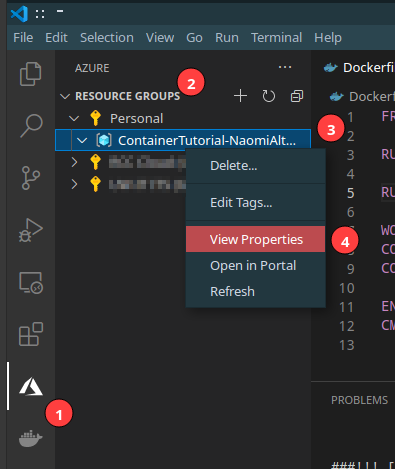
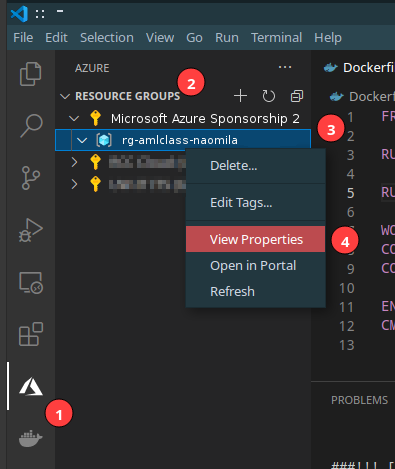
Azure CLI setup changes

Changed region(s): [[0.2734, 0.2388, 0.7595, 0.3284]]

diff --git a/03-deploying-containers.md b/03-deploying-containers.md
@@ -51,17 +51,25 @@ A classic example might be to develop an ML model training script on your comput
 
 There are many ways to run a Docker container in Microsoft Azure. The most general-purpose of which is a service they provide called **Azure Container Instances**. We'll use the **Azure CLI** to interact with it. The Azure CLI runs on the terminal and behaves similarly to the Docker CLI, but its commands all start with `az` rather than `docker`.
 
-Get started by opening a VS Code terminal and logging in to Azure with the command:
+Get started by downloading and installing the Azure CLI on your computer here:
+
+https://docs.microsoft.com/en-us/cli/azure/install-azure-cli
+
+Once you're finished with that, open a VS Code terminal and logging in to Azure with the command:
 
 `az login`
 
-This command will open a web browser to an Azure login page. Enter your username and password, and once you've successfully logged in go back to the terminal.
+This command will open a web browser to an Azure login page. Enter your username and password, and once you've successfully logged in go back to the terminal. You should see it list the Azure **subscriptions** you have access to (that is, the billing accounts paying for your cloud resources). In our case, the whole class falls under one subscription, called "Microsoft Azure Sponsorship 2" (labeled (1) in figure).
 
-Next, we'll tell the CLI what **subscription** and **resource group** to work within. You can find this information by opening the Azure sidebar and looking under the Resource Groups box. Right-click the resource group created for your time in this class, of the form `rg-amlclass-[UW STUDENT ID]`, and select `View Properties`:
+![rg](img/subscriptions.png)
+
+We'll start by setting the CLI to use this subscription by default, so we don't have to specify it for every `az` command we run. Copy the value in the `id` field of this output (labeled (2) in figure)  and paste it into the following command, which you should run in your terminal:
+
+`az account set --subscription [SUBSCRIPTION ID]`
+
+Next, we'll tell the CLI what **resource group** to work within. The resource group is specific to you, and is like a cloud "folder" containing all of the Azure services you'll create or use. You can find this information by opening the Azure sidebar (1) and looking under the Resource Groups box (2), though you may have to log in to Azure again through the sidebar to see it. Expand this class's subscription ("Microsoft Azure Sponsorship 2") and right-click the resource group created for you (3). Its name will take the form `rg-amlclass-[UW STUDENT ID]`. Select `View Properties` (4):
 
 ![rg](img/rg.png)
-
-You may have to log in to Azure again through the Azure sidebar to see all of your available resource groups.
 
 Once you click `View Properties`, a bunch of configuration information should open up in the code editing area. It'll look something like this:
 
@@ -81,19 +89,19 @@ The id of the resource group takes the following form:
 
 `/subscriptions/[SUBSCRIPTION ID]/resourceGroups/[GROUP NAME]`
 
-Note down both the subscription ID and group name from the "id" section of the configuration info in your VS code window (don't use the values in the above example). The subscription is the billing account paying for your cloud resources; in our case, the whole class falls under one subscription. The resource group is specific to you, and is like a cloud "folder" containing all of the Azure services you start using.
-
-In your terminal, set the active subscription with the command:
-
-`az account set --subscription [SUBSCRIPTION ID]`
-
-replacing [SUBSCRIPTION ID] with the appropriate value you noted down earlier. Then, set the resource group with the command:
+Note down both the group name from the "id" section of the configuration info in your VS code window (don't use the values in the above example). Then, set the resource group with the command:
 
 `az configure --defaults group=[GROUP NAME] `
 
-replacing [GROUP NAME] with the appropriate value you noted down earlier. 
+replacing [GROUP NAME] with the value you just noted down. 
 
-To confirm everything is working, try out the command `az container list`. It should return the output `[]`, indicating our Azure account doesn't currently have any containers loaded (but is ready to!).
+To confirm everything is working, try running the command: 
+
+`az resource list`.
+
+It should return all of the Azure services and objects currently in your resource group, including the Machine Learning workspace you'll be using later in the semester:
+
+![ml](img/ml.png)
 
 #### Running containers in Azure
 

diff --git a/01-running-containers.md b/01-running-containers.md
@@ -131,7 +131,7 @@ optional arguments:
   --pdf FILENAME  output as a pdf file
 ```
 
-Since `main.py` is the contianer's entrypoint, any flags we put in our `docker run` command following the image name will be passed to it.  Let's try playing with them. From the terminal:
+Since `main.py` is the container's entrypoint, any flags we put in our `docker run` command following the image name will be passed to it.  Let's try playing with them. From the terminal:
 
 `docker run --rm -it naclomi/textbook-writer --sentences 1  `
 
@@ -159,7 +159,7 @@ where `[host_path]` is the directory on your computer to mount, and `[container_
 
 For our textbook writer, we can mount the current directory the terminal is sitting in to the container path `/output` with this command line (1):
 
-`docker run -v "${PWD}":/output naclomi/textbook-writer --pdf /output/textbook.pdf` 
+`docker run -v ${PWD}:/output naclomi/textbook-writer --pdf /output/textbook.pdf` 
 
 ![pdf_output](img/pdf_output.png)
 
